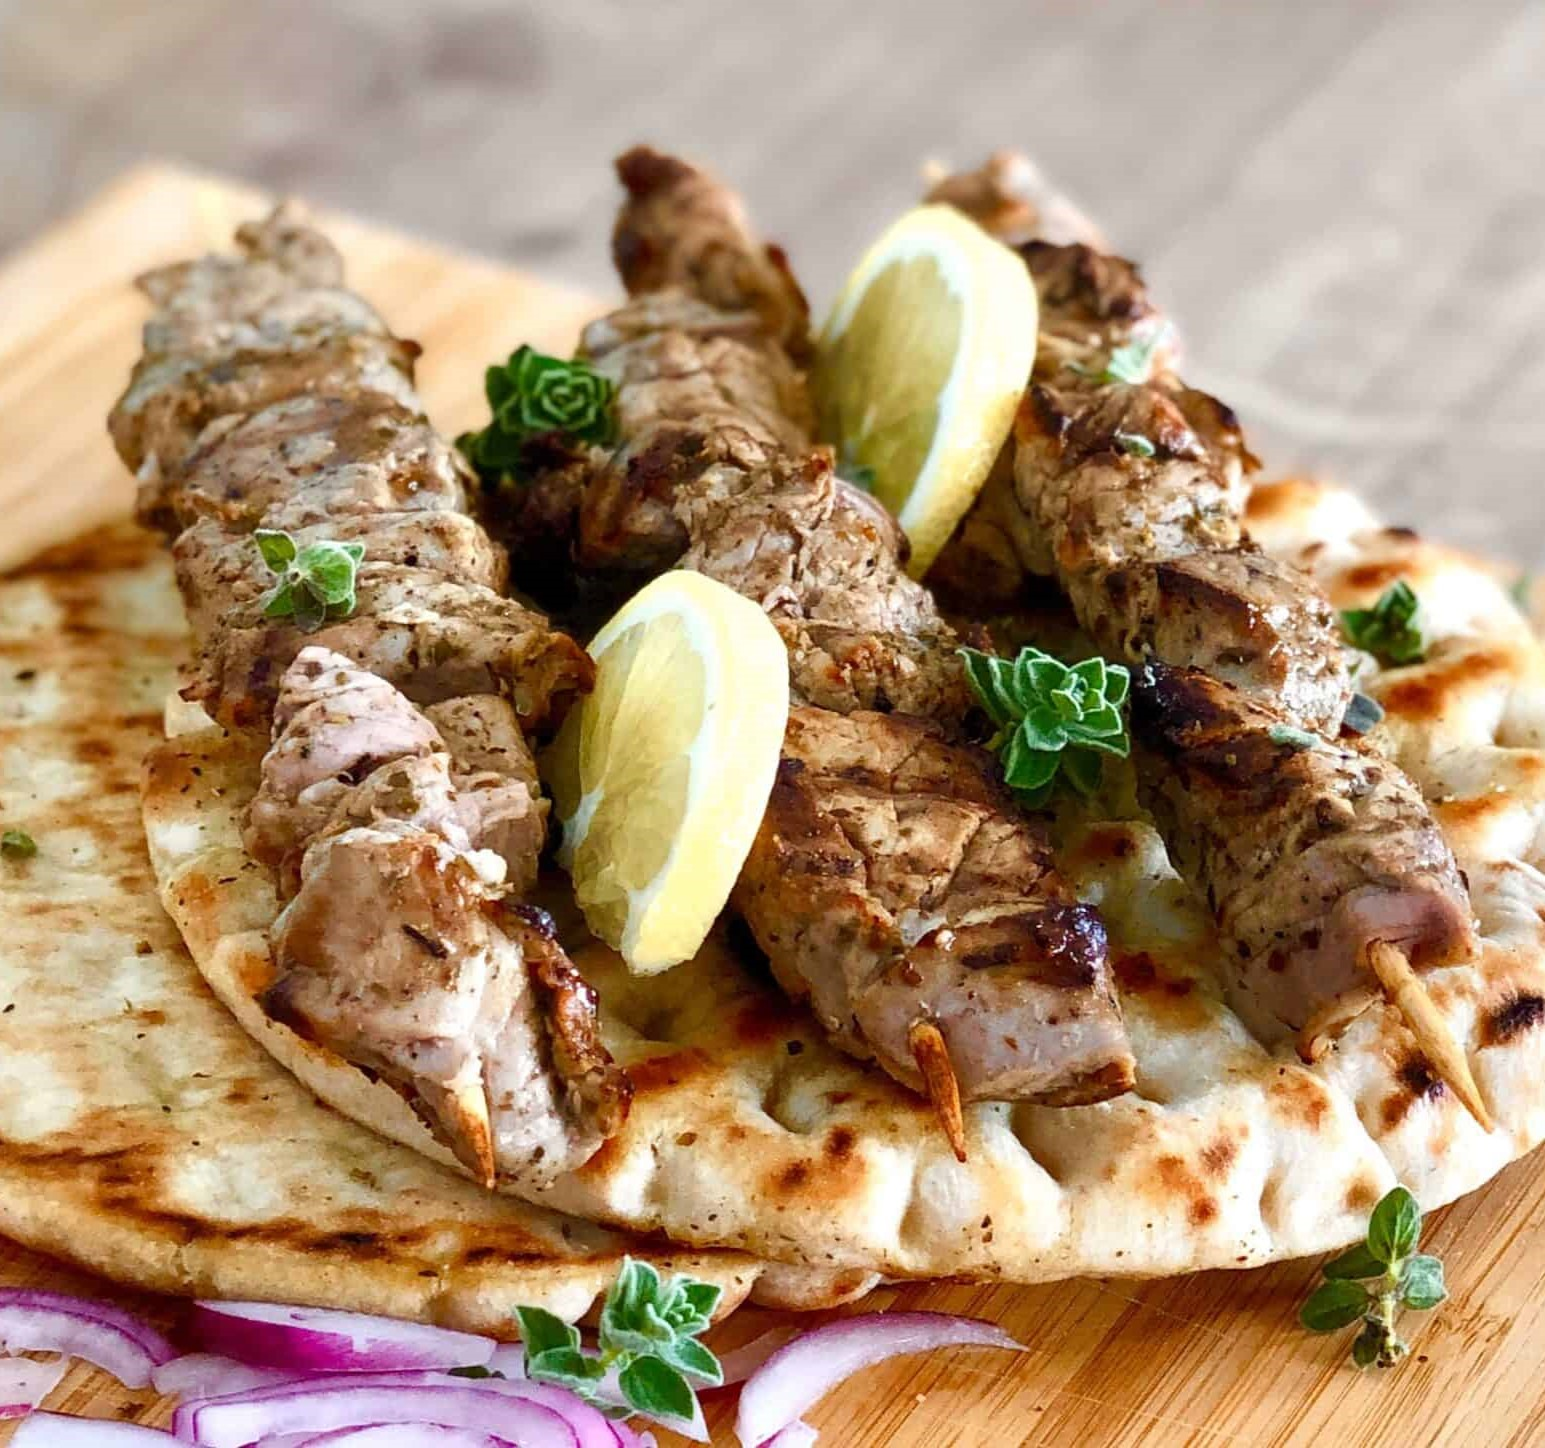
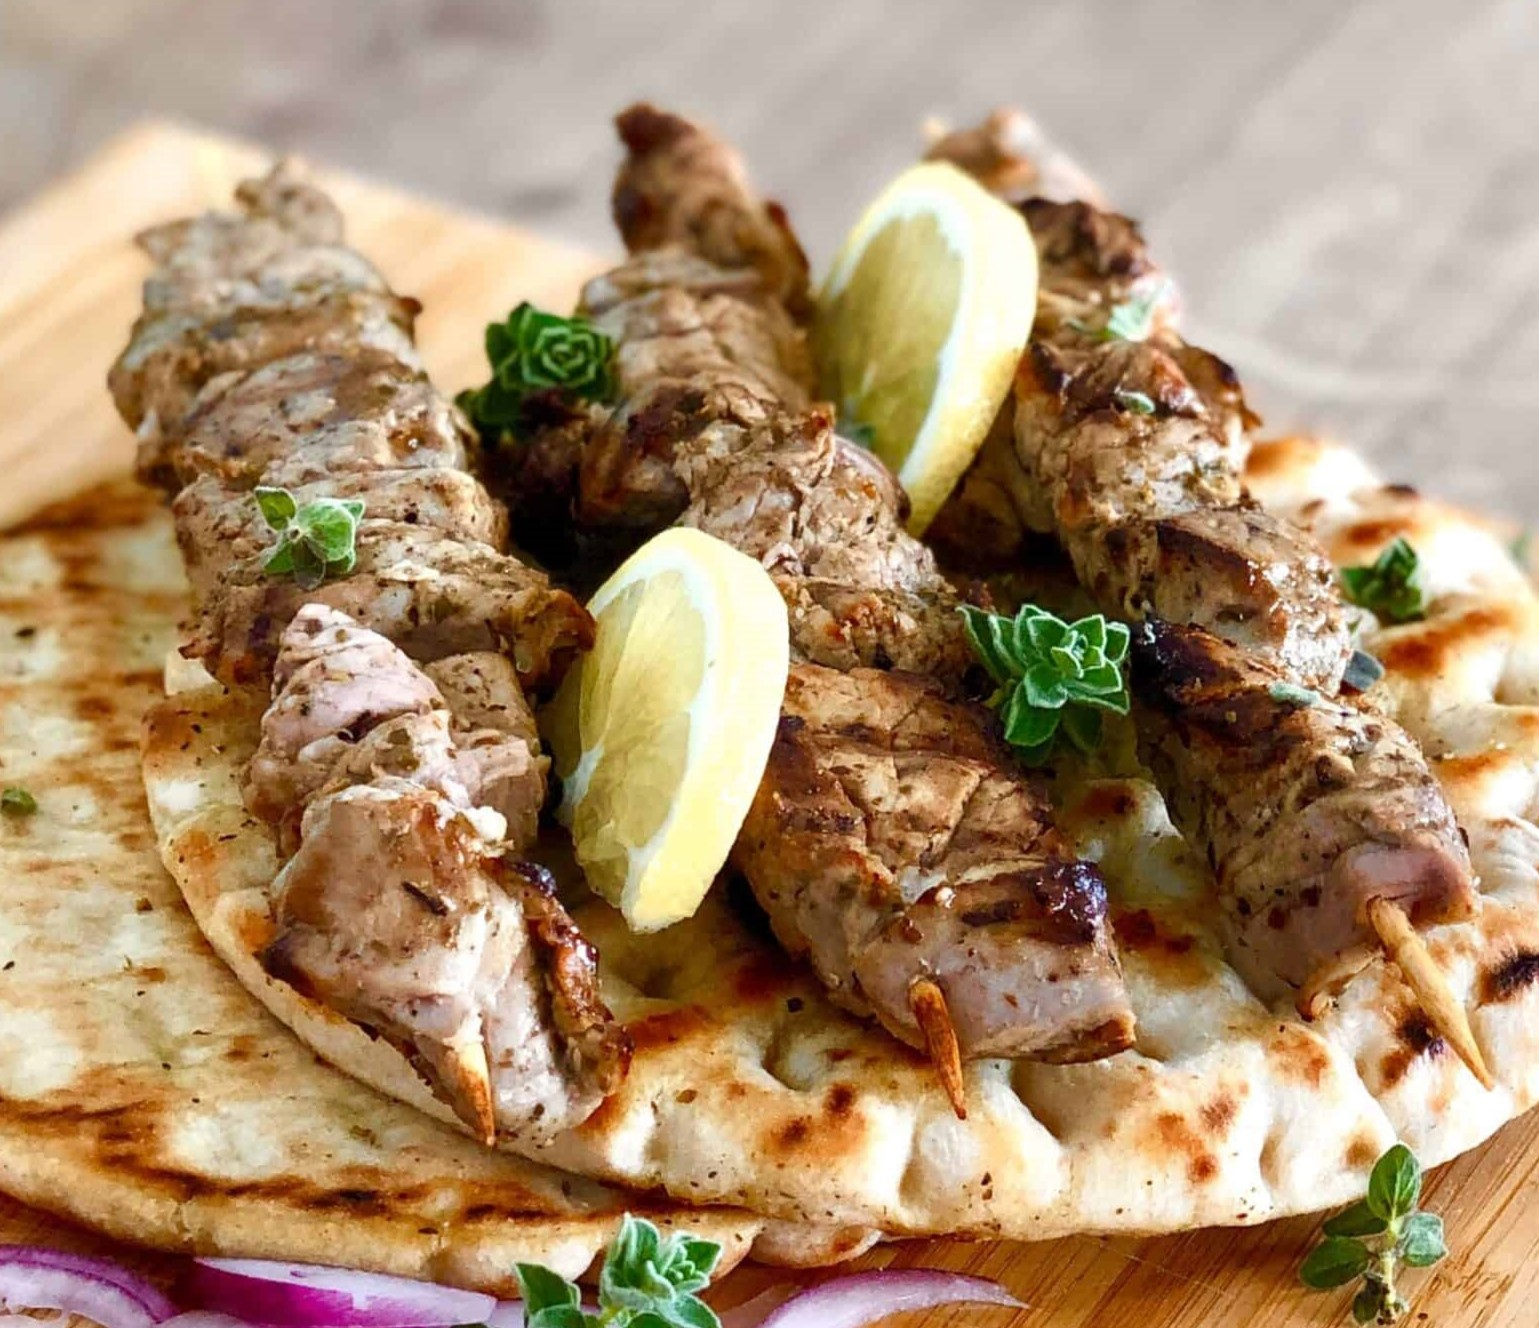
fixed menu image issue

diff --git a/Menu/Lunch/lunch.html b/Menu/Lunch/lunch.html
@@ -30,7 +30,7 @@
 
             <div class="menu-item">
                 <div class="item-image">
-                    <img src="/Images/Lunch/spanakopita.jpg" alt="Spanakopita" class="">
+                    <img src="/Images/Lunch/spanakopita-copy.jpg" alt="Spanakopita" class="">
                 </div>
                 <div class="item-info">
                     <p class="name">Spanakopita</p>
@@ -39,12 +39,12 @@
                         <button class="addItem shadow"><img src="/Ion_Icons/add-outline.svg" alt=""></button>
                     </div>
                 </div>
-                <p class="description">Flaky, golden pastry filled with a savory blend of spinach and feta cheese—Greek comfort food at its finest.</p>
+                <p class="description">Flaky, golden pastry filled with a deliciously savory blend of spinach and feta.</p>
             </div>
 
             <div class="menu-item">
                 <div class="item-image">
-                    <img src="/Images/Lunch/Souvlaki.jpg" alt="Souvlaki" class="">
+                    <img src="/Images/Lunch/souvlaki.jpeg" alt="Souvlaki" class="">
                 </div>
                 <div class="item-info">
                     <p class="name">Souvlaki</p>
@@ -53,7 +53,7 @@
                         <button class="addItem shadow"><img src="/Ion_Icons/add-outline.svg" alt=""></button>
                     </div>
                 </div>
-                <p class="description">Tender, marinated meat skewers grilled to perfection, served with warm pita, tangy tzatziki, and fresh veggies.</p>
+                <p class="description">Tender, marinated meat skewers grilled to perfection, served with warm pita and tangy tzatziki.</p>
             </div>
 
             <div class="menu-item">
@@ -81,7 +81,7 @@
                         <button class="addItem shadow"><img src="/Ion_Icons/add-outline.svg" alt=""></button>
                     </div>
                 </div>
-                <p class="description">Rich layers of eggplant, seasoned meat, and béchamel sauce, baked until golden—a true taste of Greece.</p>
+                <p class="description">Rich layers of eggplant, seasoned meat, and béchamel sauce, baked until golden.</p>
             </div>
 
             
